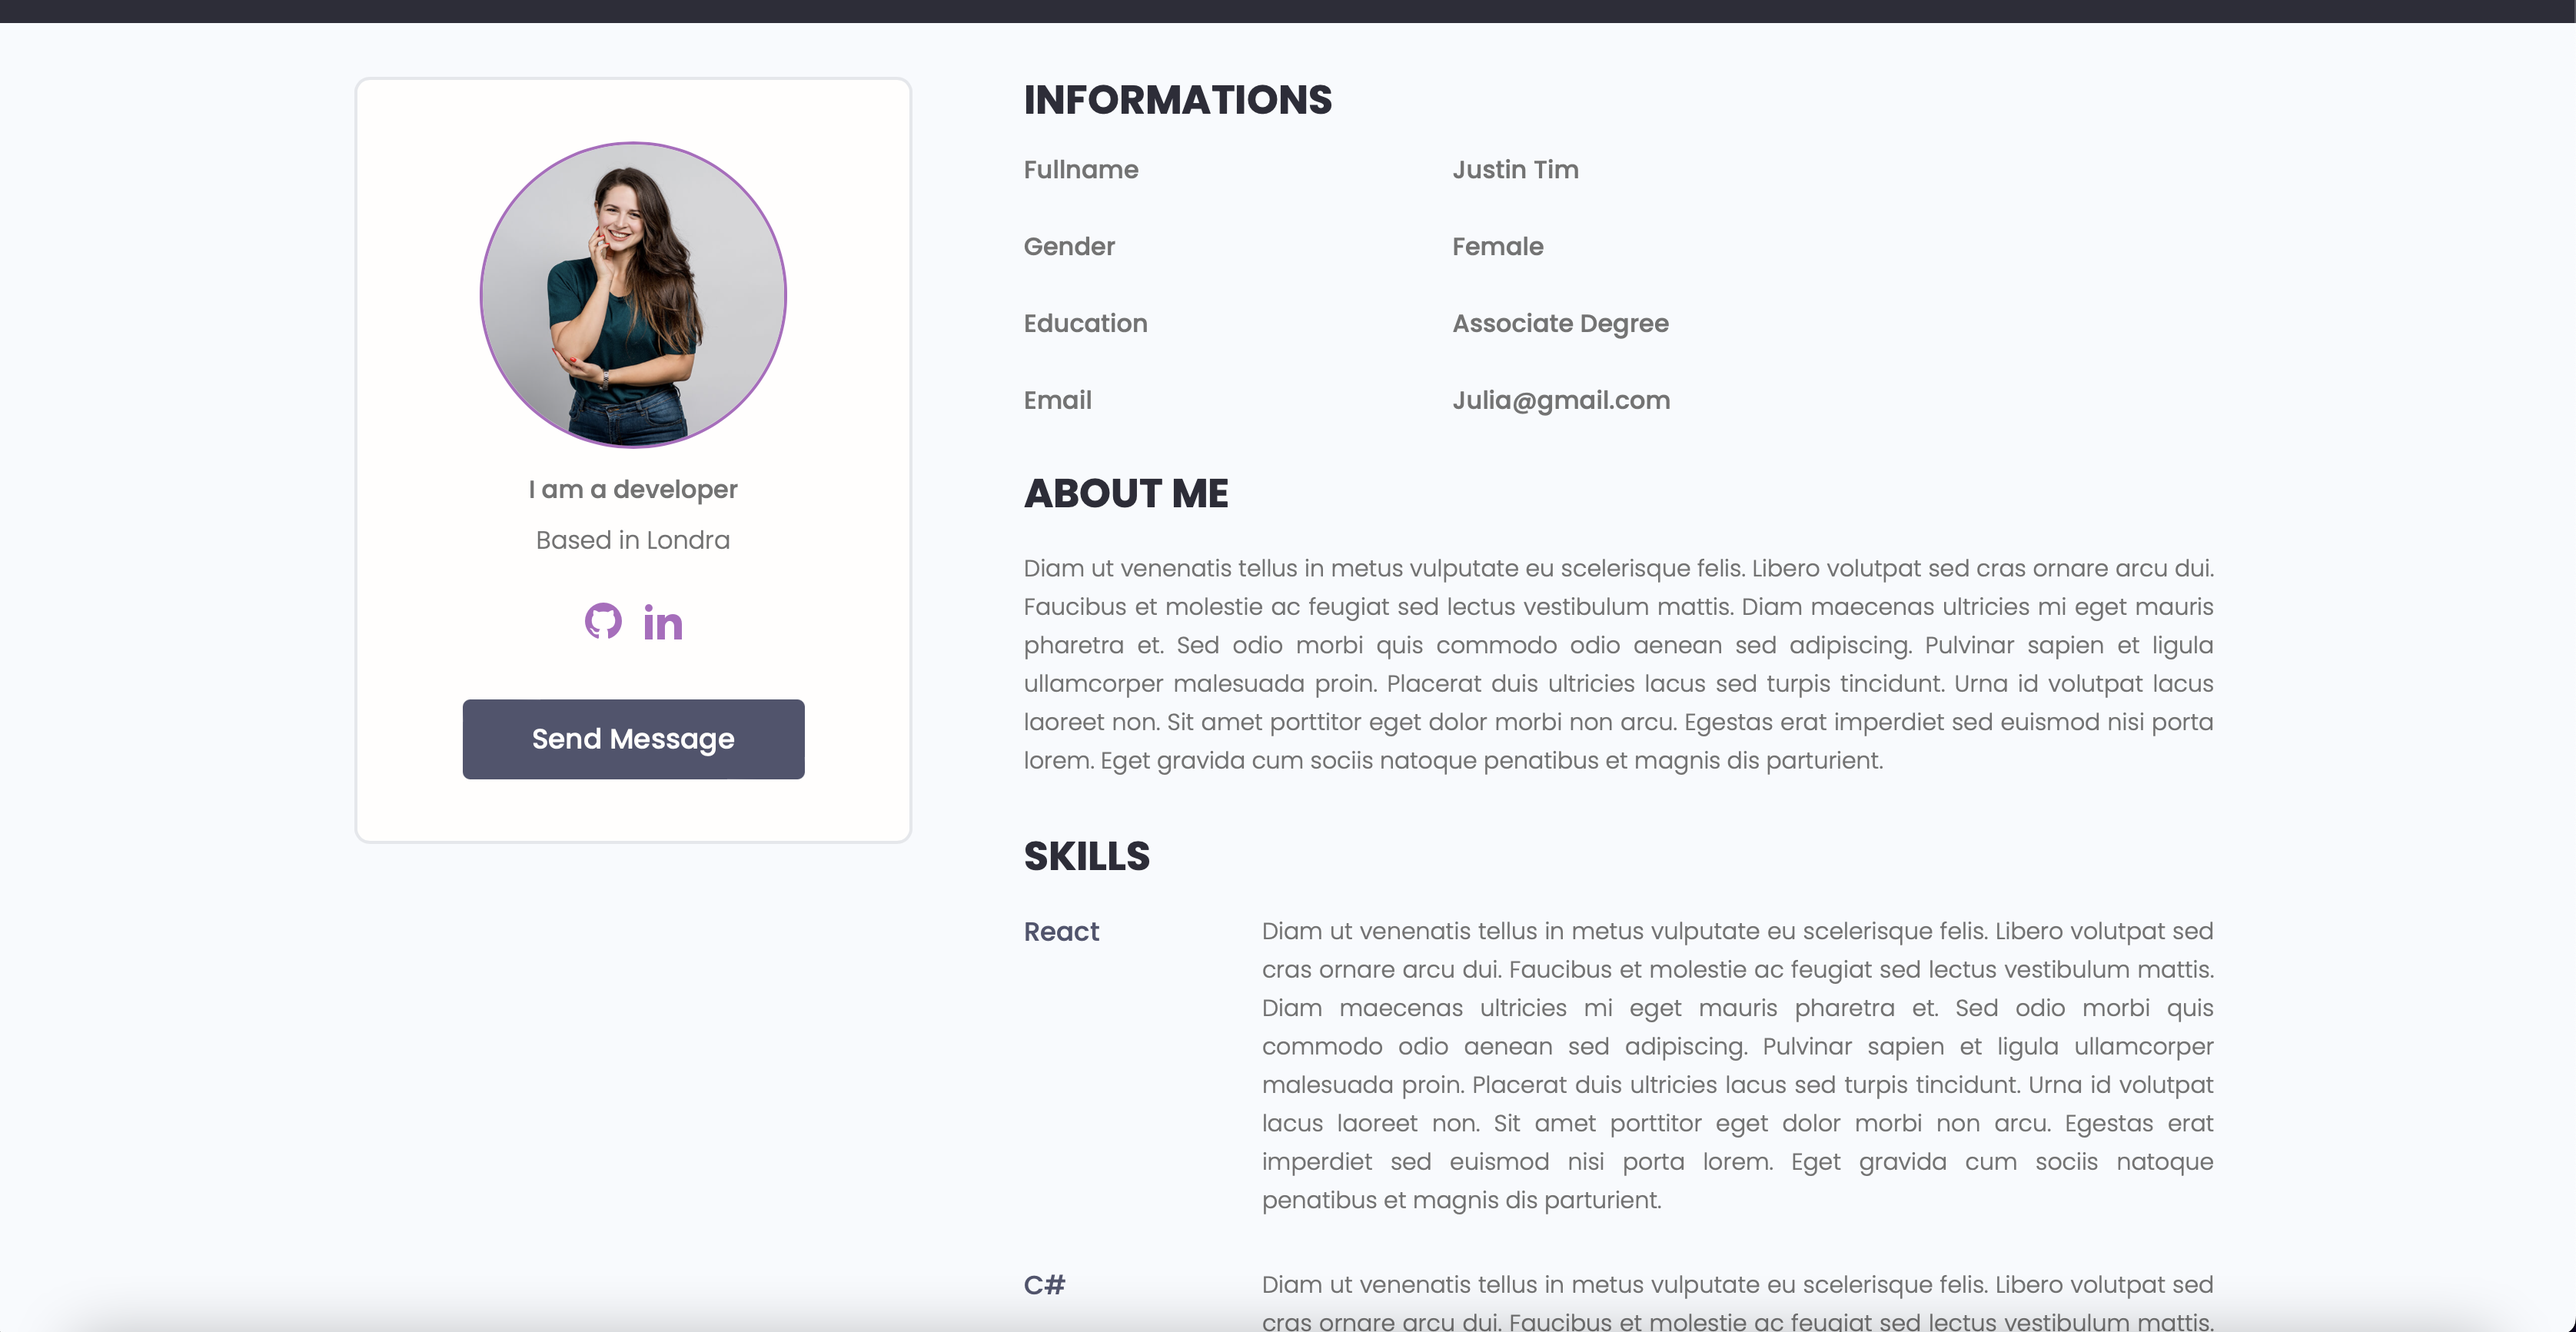
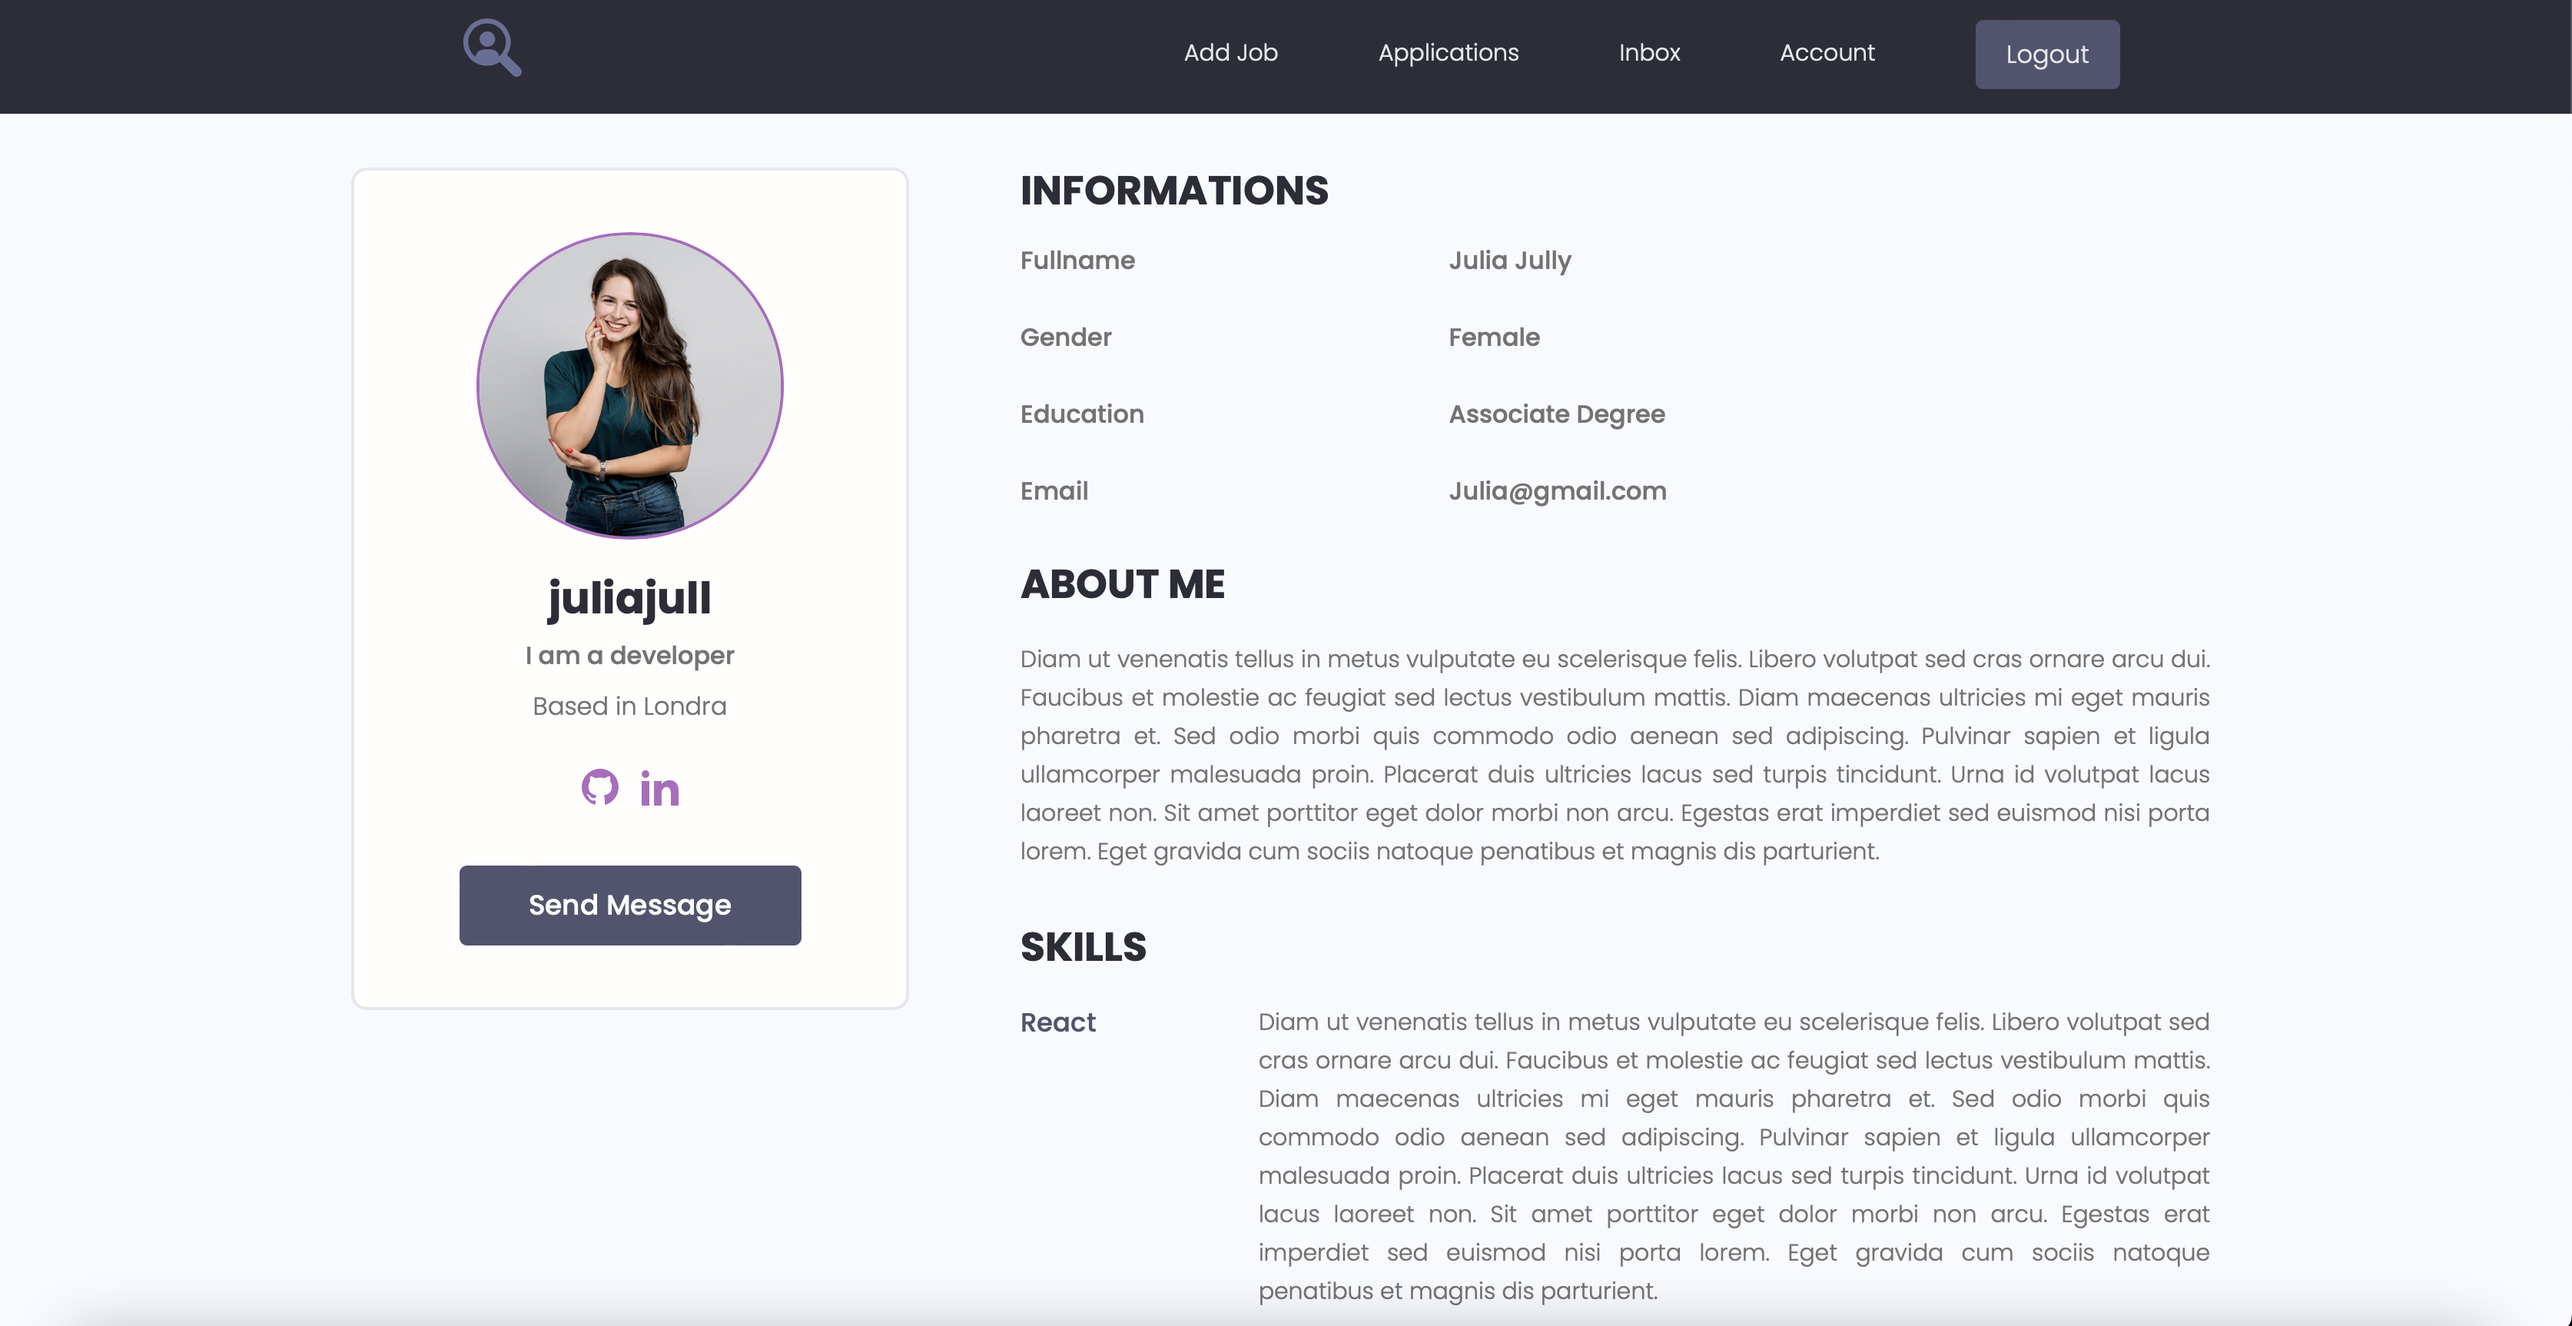
second commit

diff --git a/templates/users/profile.html b/templates/users/profile.html
@@ -8,7 +8,7 @@
                     <div class="card text-center">
                         <div class="card__body dev">
                             <img class="avatar avatar--xl" src="{{ profile.imageURL }}"/>
-                            <h2 class="dev__name">{{ profile.name }}</h2>
+                            <h2 class="dev__name">{{ profile.user.username }}</h2>
                             <p class="dev__title">{{ profile.short_intro }}</p>
                             <p class="dev__location">Based in {{ profile.location }}</p>
                             <ul class="dev__social">
@@ -62,7 +62,7 @@
                                 <h4 class="dev__title">Fullname</h4>
                             </div>
                             <div class="column column--2of3">
-                                <h4 class="dev__title">{{ user.get_full_name|title }}</h4>
+                                <h4 class="dev__title">{{ profile.user.get_full_name|title }}</h4>
                             </div>
                         </div>
                         <div class="layout">
